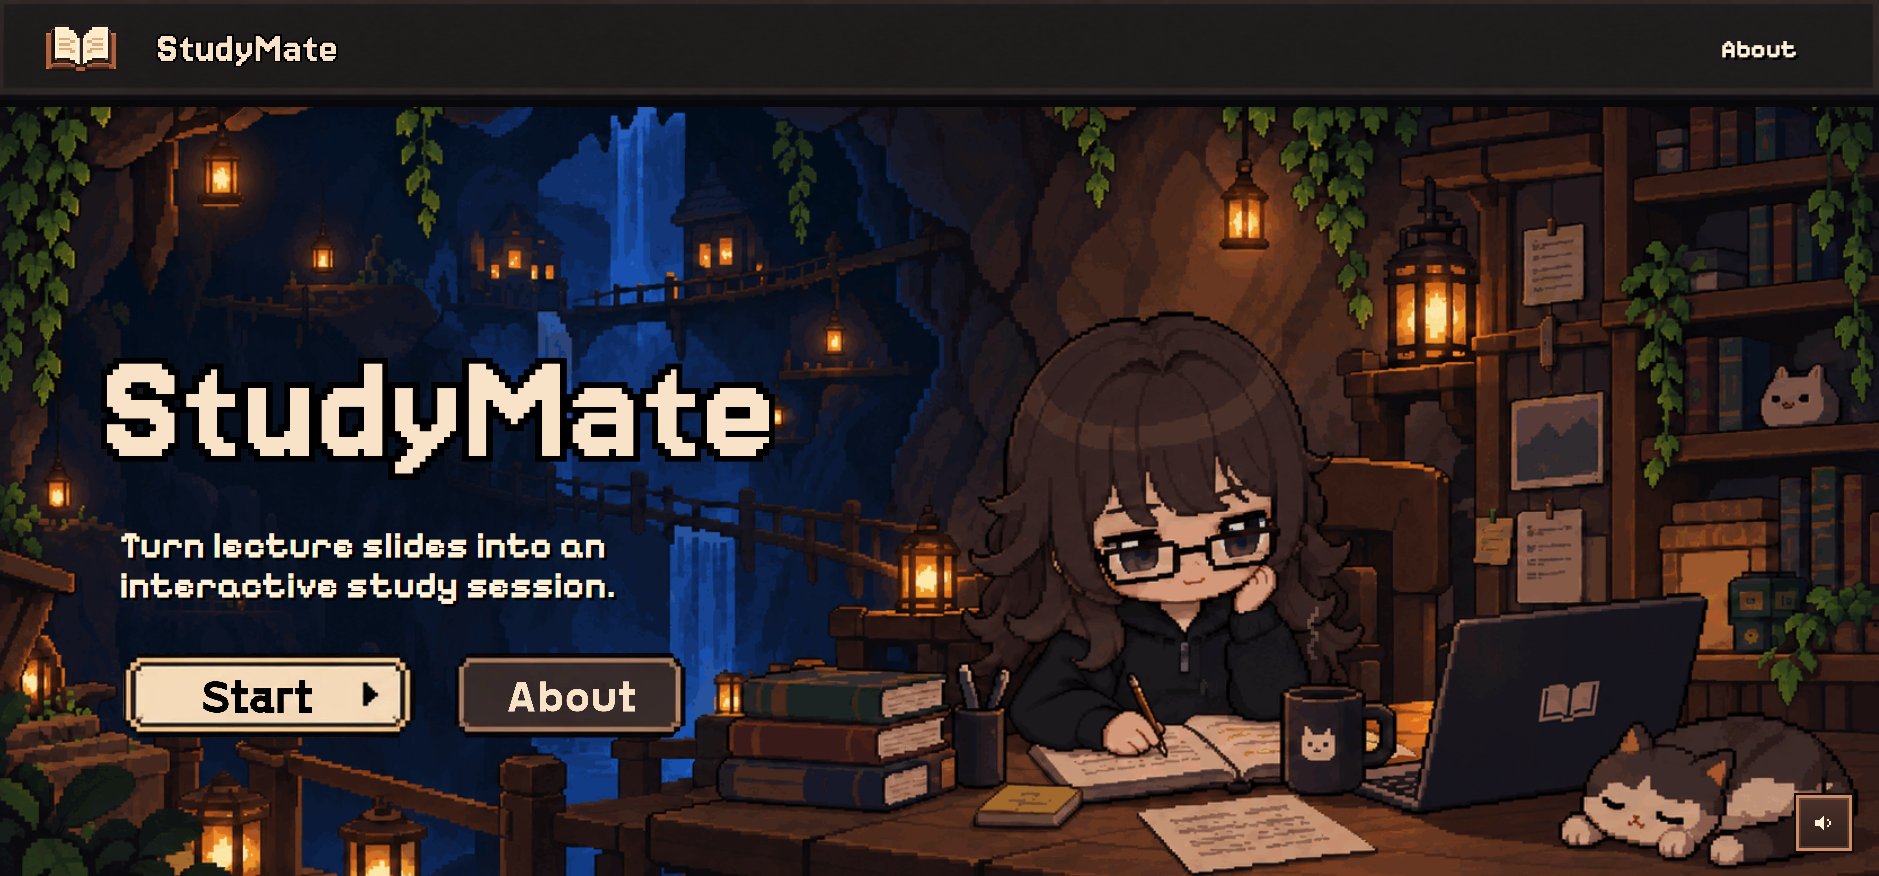
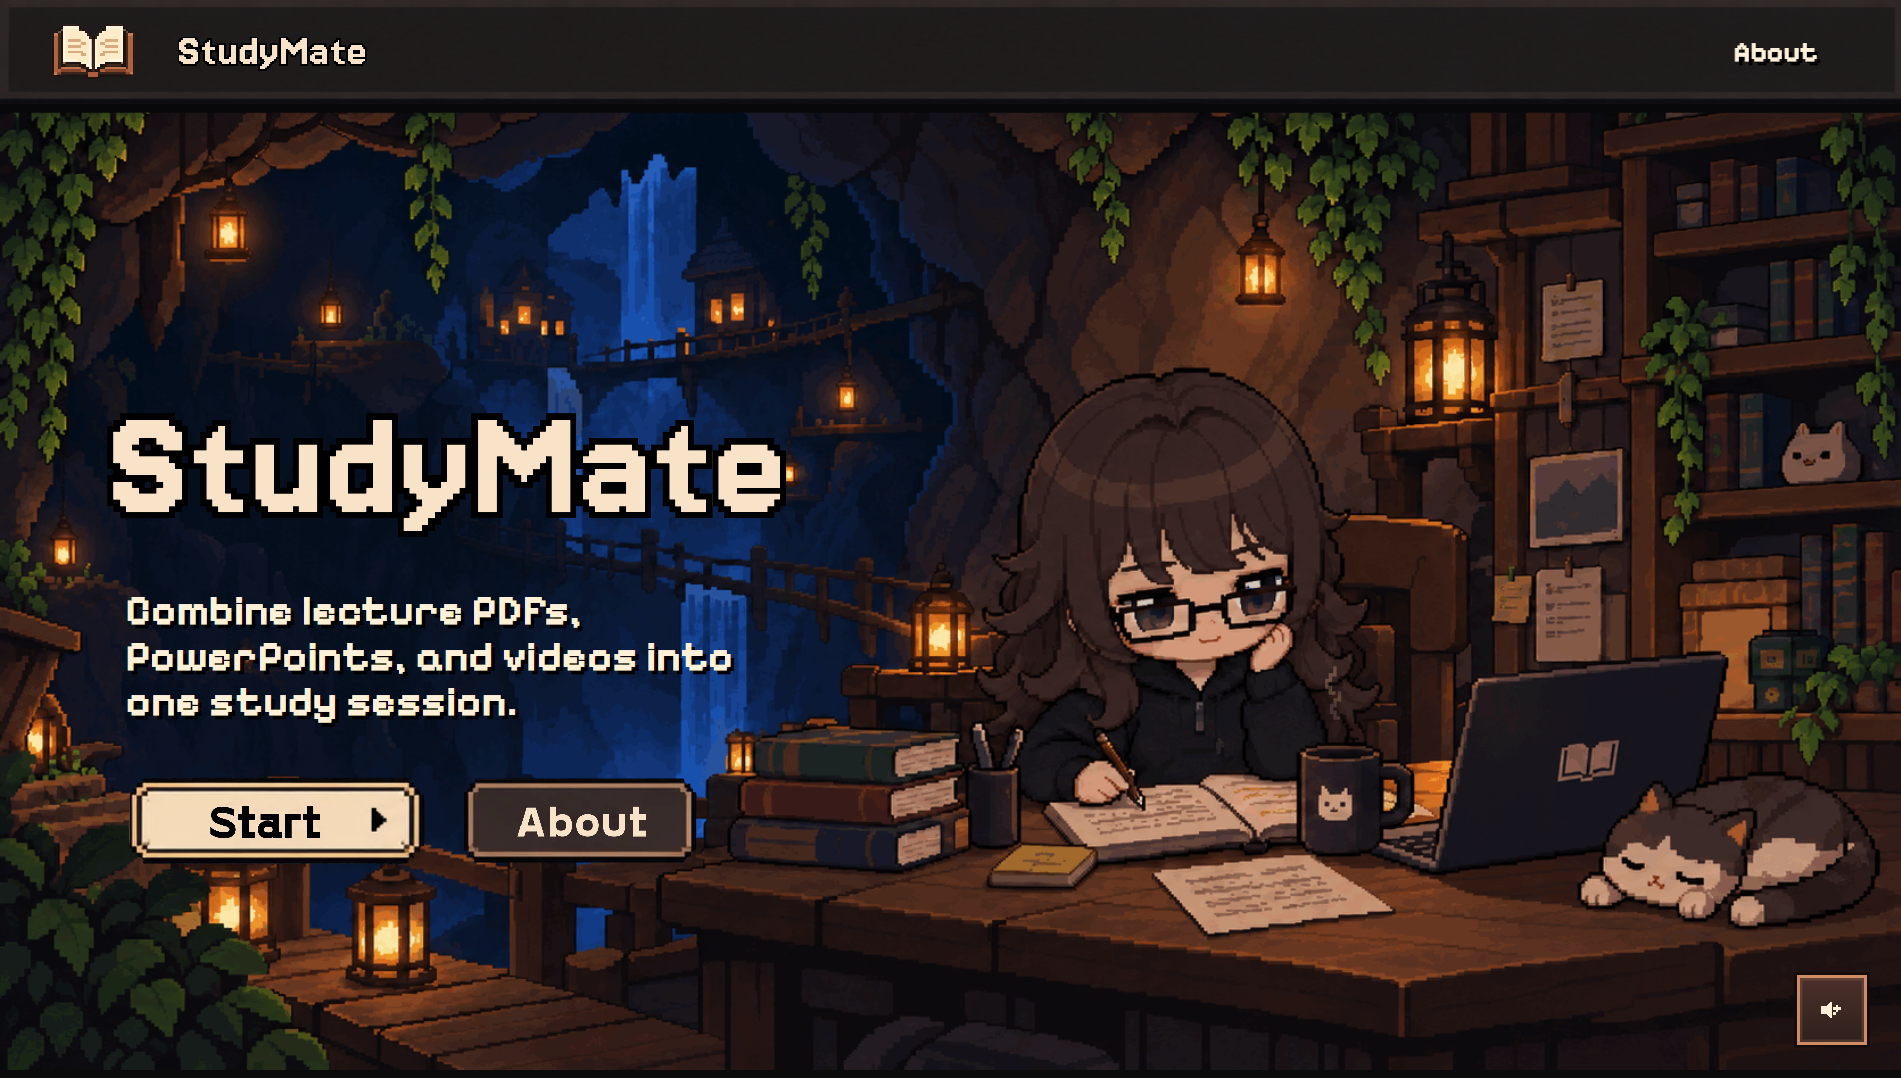
feat: Update AboutPopup and HomePage descriptions for clarity and inclusivity

diff --git a/frontend/src/components/AboutPopup.jsx b/frontend/src/components/AboutPopup.jsx
@@ -19,9 +19,9 @@ export function AboutPopup({ onClose }) {
         <div className="about-popup-content">
           <h2 id="about-popup-title">About StudyMate</h2>
           <p>
-            StudyMate turns your lecture PDFs into interactive AI study sessions.
-            Choose your setting, follow the explanation, ask questions, and revisit
-            topics at your own pace.
+            StudyMate combines your lecture PDFs, PowerPoints, and videos into one
+            interactive AI study session. Choose your setting, follow the explanation,
+            ask questions, and revisit topics at your own pace.
           </p>
 
           <button

diff --git a/frontend/src/pages/HomePage.jsx b/frontend/src/pages/HomePage.jsx
@@ -13,7 +13,7 @@ export function HomePage({ onAbout, onStart }) {
           <h1 id="home-title" className="visually-hidden">
             StudyMate
           </h1>
-          <p>Turn lecture slides into an interactive study session.</p>
+          <p>Combine lecture PDFs, PowerPoints, and videos into one study session.</p>
         </section>
 
         <div className="home-actions">
